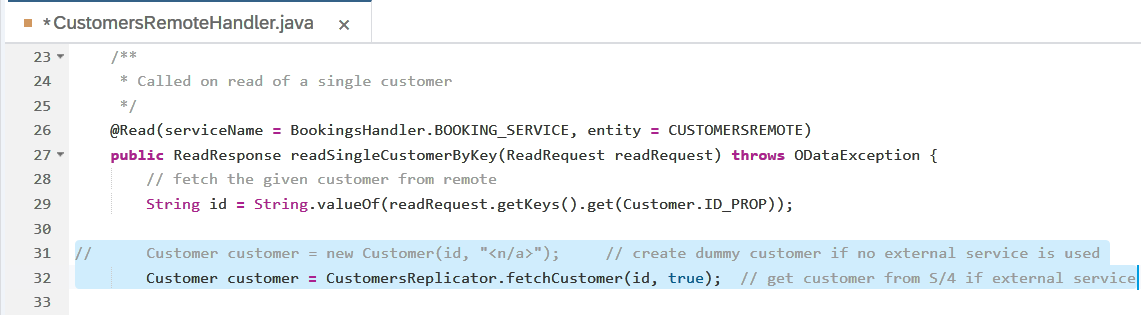
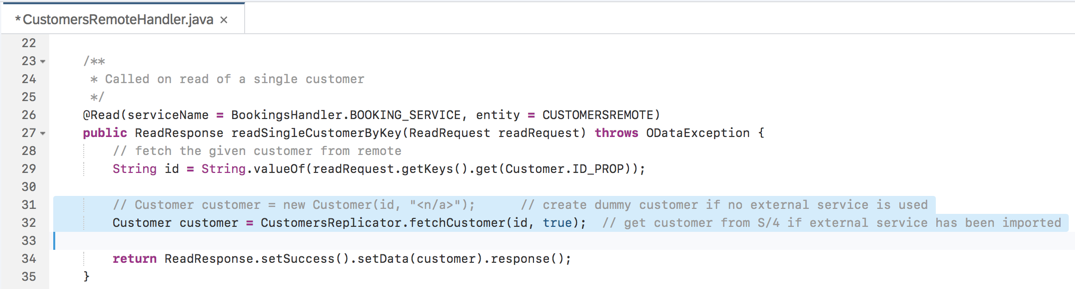
Exercise 3

diff --git a/-exercises-/03-ConnectService/README.md b/-exercises-/03-ConnectService/README.md
@@ -80,58 +80,86 @@ For this exercise you have to **switch to another code branch** of the Git repos
 
 4. **Browse the database**
 
-   One the `db` folder, select `Open HDI Container`, which will lead you to the deployed tables.
+   On the `db` folder, select `Open HDI Container`, which will lead you to the deployed tables.
    Click on the `Tables` item in the tree.
    <p align="center"><img width="480" src="res/pic326a.png" alt="Browse the database"> </p>
 
-   > There is a new table `..._CUSTOMERS` for the `Customers` entity.  Also, in table `..._BOOKINGS` you can see a new column `CUSTOMER_ID` for the foreign key to the new `CUSTOMERS` table.  In the next section you will see how this new table is filled with data from S/4HANA.
+   > Note that there is a new table `..._CUSTOMERS` for the `Customers` entity.  Also, in table `..._BOOKINGS` you can see a new column `CUSTOMER_ID` holding the foreign key to the `CUSTOMERS` table.  In the next section you will see how this new table is filled with data from S/4HANA.
 
 
-### 3. Change Java handler code: add S/4 calls
+### 3. Call S/4 in the Java code
 
-1. **Adjust `CustomersRemoteHandler.java`:** Change the line comments as indicated in the pictures.
-![TBD](res/pic317.png)
-![TBD](res/pic318.png)
+1. **Change `CustomersRemoteHandler.java`**:
 
-2. **Run the Java application:**
-<p align="center"><img width="500" src="res/pic321.png" alt="Run Java app"> </p>
+   To enable reading a single customer record, add a comment in line 31 and remove the comment from line 32:
+   <p align="center"><img width="640" src="res/pic317.png" alt="Change readCustomer method"> </p>
 
-3. **Browse the Booking Service:** Click the url of the Java application in the run console:
-![TBD](res/pic322.png)
+   To enable reading multiple customer records, add a comment in line 47 and remove the comment from line 48:
+   <p align="center"><img width="640" src="res/pic318.png" alt="Change queryCustomers method"> </p>
 
-4. **Select the BookingService endpoint to see the service metadata:**
-![TBD](res/pic323.png)
-**Check the data retreived as "Bookings" and as "CustomerRemote":**
-![TBD](res/pic324.png)
-![TBD](res/pic325.png)
-Remote customers (read from S/4) are not yet persisted in our database ...
+   > TODO Explanation needed
+
+2. **Verify the code works**
+
+   a. Run the Java application:
+   <p align="center"><img width="480" src="res/pic321.png" alt="Run Java app"> </p>
+
+   b. Click the URL of the Java application in the run console:
+   <p align="center"><img width="480" src="res/pic322.png" alt="Open Java app"> </p>
+
+   c. Select the BookingService endpoint:
+   <p align="center"><img width="480" src="res/pic323.png" alt="Open BookingService"> </p>
+
+   d. Check the data retreived as `Bookings` and as `CustomerRemote`:
+   <p align="center"><img width="480" src="res/pic324.png" alt="Query Bookings"> </p>
+   <p align="center"><img width="480" src="res/pic325.png" alt="Query CustomersRemote"> </p>
+
+   > TODO Explanation needed
+   Remote customers (read from S/4) are not yet persisted in our database ...
 
 ### 4. Prepare storing S/4 customers in the local database
-1. **Adjust `BookingsHandler.java`:** Remove the line comments to match the following pictures.
-![TBD](res/pic315.png)
-![TBD](res/pic316.png)
 
-2. **Run again:**
-<p align="center"><img width="500" src="res/pic321.png" alt="Run Java app"> </p>
+1. **Adjust `BookingsHandler.java`**
+
+   Remove the line comments in line 75:
+   <p align="center"><img width="640" src="res/pic315.png" alt="Call fetchAndSaveCustomer"> </p>
+
+   Also remove the comments from method `fetchAndSaveCustomer`:
+   <p align="center"><img width="640" src="res/pic316.png" alt="Implement fetchAndSaveCustomer"> </p>
+
+   Save the file.
+
+   > Now, for each new booking created, the respective customer record is going to fetched and saved to the local database.
+   To create a booking, we need a UI, though.  Let's do this real quick in the next section.
+
+2. **Run again the service again**
+
+   <p align="center"><img width="480" src="res/pic321.png" alt="Run Java app"> </p>
 
 ### 5. Create bookings for S/4 customers
 
-1. **Adjust the UI:** The UI can be adapted when adding/changing Fiori annotations to CDS models. Remove the line comments for the section marked in the following figures:
-![TBD](res/pic327.png)
-![TBD](res/pic328.png)
-![TBD](res/pic330.png)
-![TBD](res/pic329.png)
+1. **Adjust the UI**
 
-2. **Run the UI within SAP Web IDE:**
-<p align="center"><img width="600" src="res/pic331.png" alt="Imported files"> </p>
+   The UI can be adapted when adding/changing Fiori annotations to CDS models. Remove the line comments for the section marked in the following figures:
+   <p align="center"><img width="480" src="res/pic327.png" alt="Change Customers annotations"> </p>
+   <p align="center"><img width="480" src="res/pic328.png" alt="Change Bookings annotations"> </p>
+   <p align="center"><img width="480" src="res/pic330.png" alt="Change Bookings line item annotation"> </p>
+   <p align="center"><img width="480" src="res/pic329.png" alt="Change Bookings annotations"> </p>
 
-<p align="center"><img width="600" src="res/pic332.png" alt="Imported files"> </p>
+2. **Run the UI within SAP Web IDE**
 
-<p align="center"><img width="700" src="res/pic333.png" alt="Imported files"> </p>
+   <p align="center"><img width="600" src="res/pic331.png" alt="Open run configuration"> </p>
+
+   <p align="center"><img width="600" src="res/pic332.png" alt="Enable run with local metadata"> </p>
+
+   <p align="center"><img width="700" src="res/pic333.png" alt="Query bookings"> </p>
 
 3. **Create a new booking for an S/4 customer:**
-![TBD](res/pic334.png)
 
-4. **Check that this S/4 customer has been persisted (cached) in the database:**
-![TBD](res/pic335.png)
+   <p align="center"><img width="700" src="res/pic334.png" alt="Create booking"> </p>
+
+4. **Check that this S/4 customer has been persisted (cached) in the database**
+
+   <p align="center"><img width="700" src="res/pic335.png" alt="Query Customers entity"> </p>
+
 
